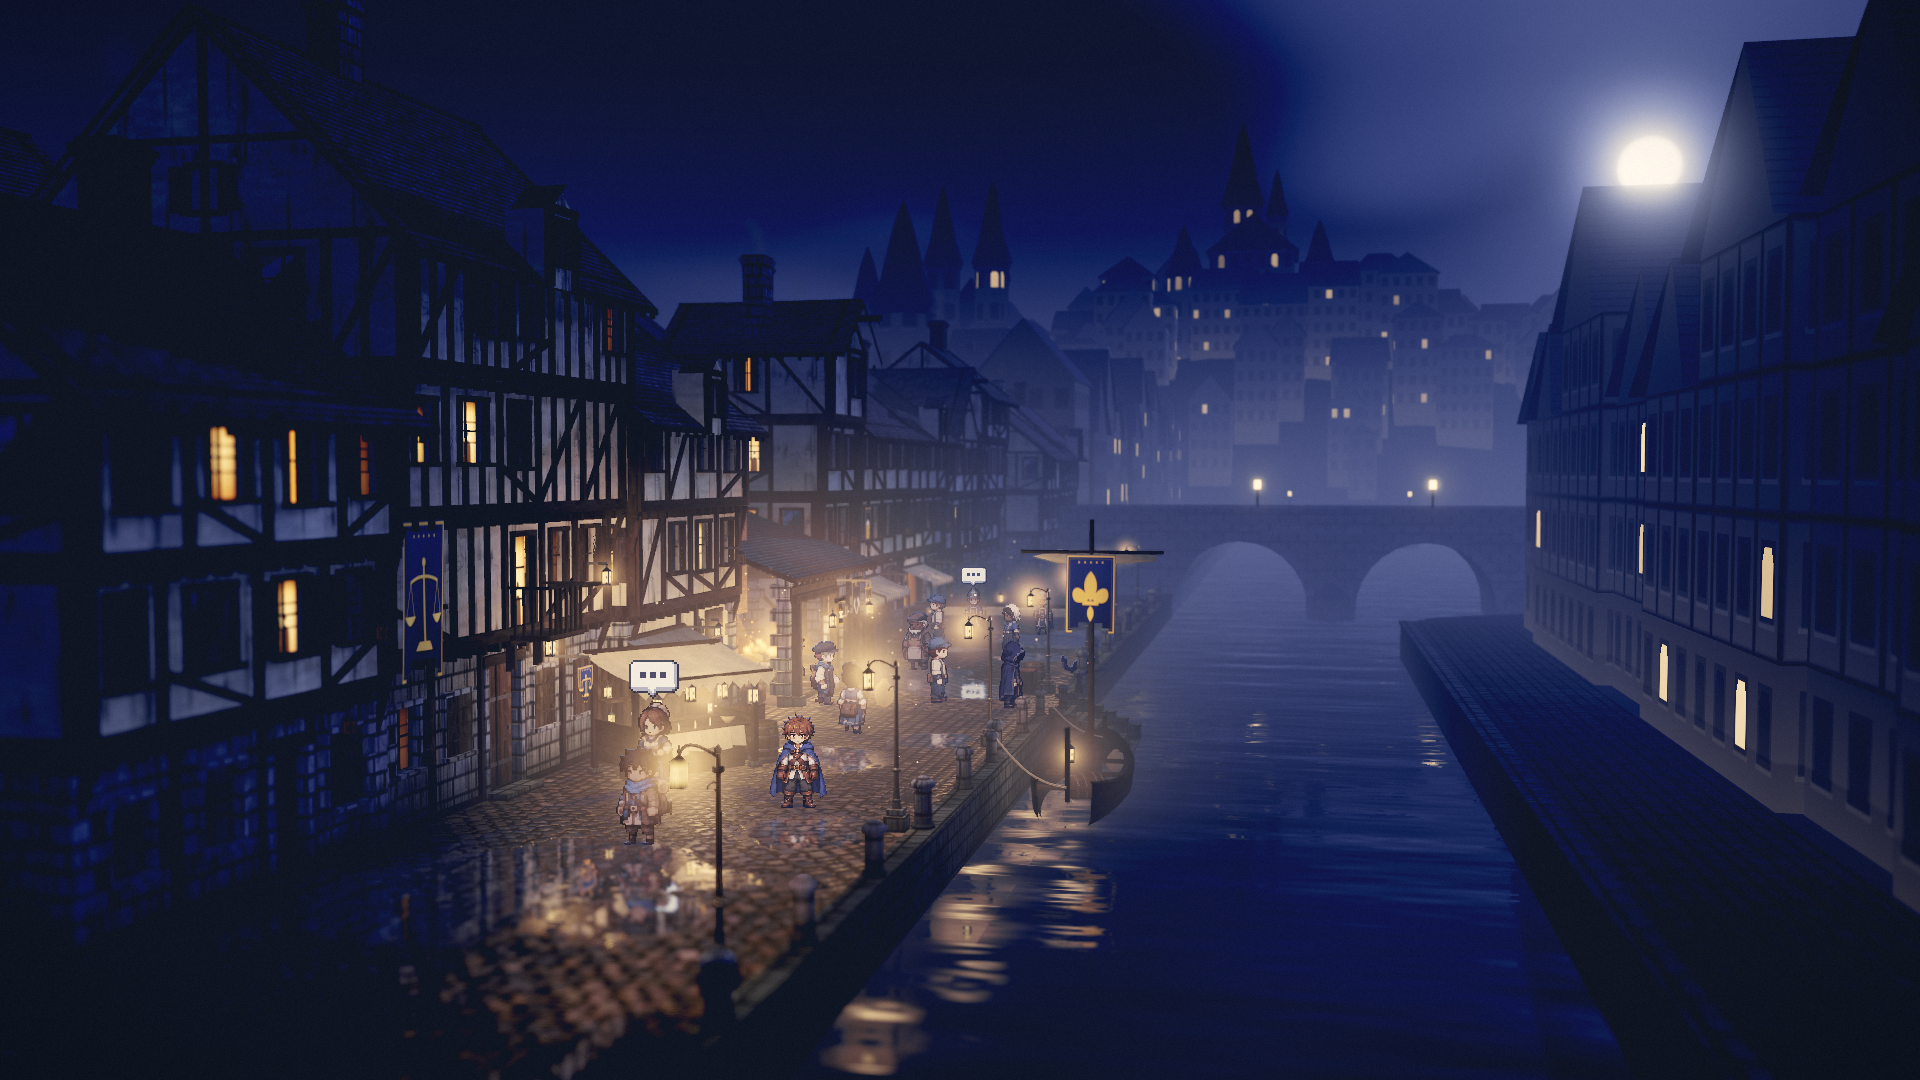
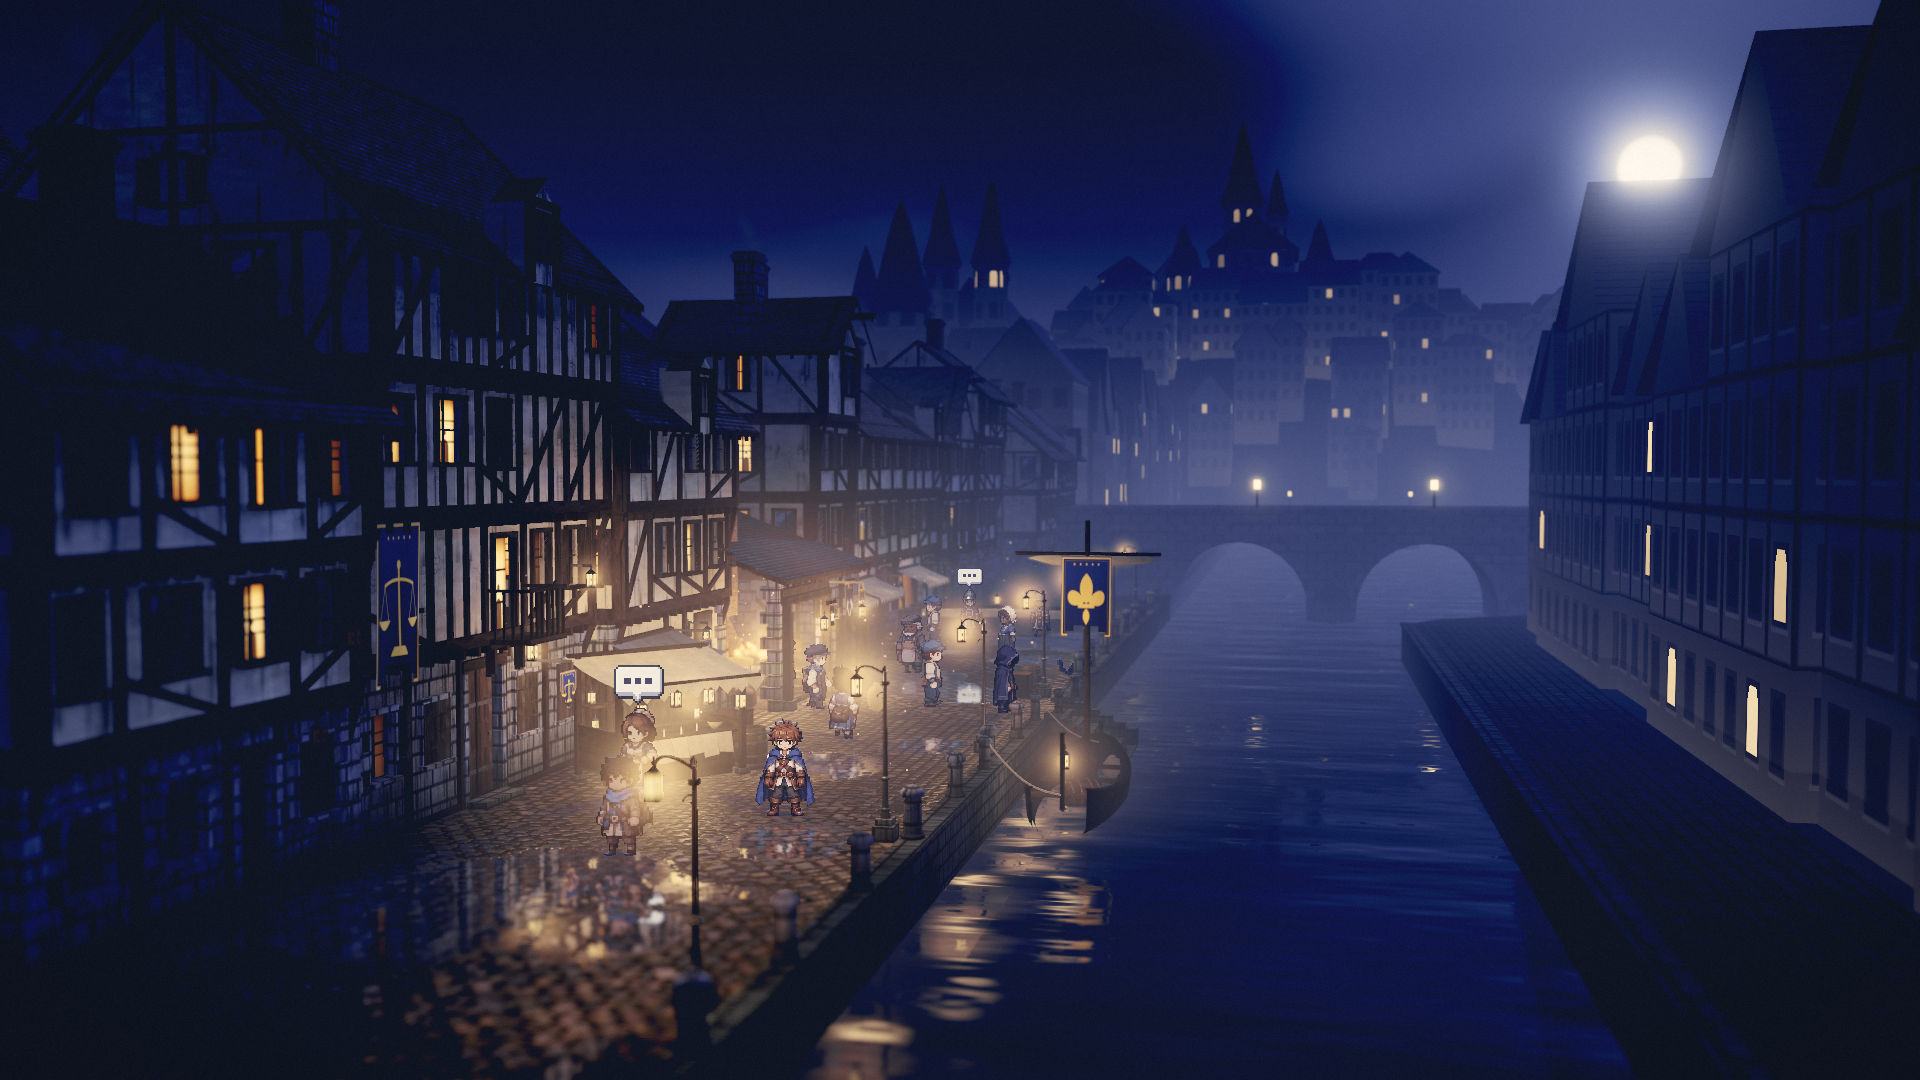
Pass K6: A's pivot moved to x 5.8 (operator decision RK1 « Appliquer 5,8 »)
The graph alone: B -> A no longer glides backwards (+20.7 px/s over 24 frames at 5.0, none at 5.8); A -> B unchanged; the test hardened with
a control at the former pivot. In the game (camsim, no threshold) the player always advanced during B -> A; its slowest advance rises
(36 -> 66 px/s with the production hero, 27.5 -> 40 with the generated cast). Visibility (viewport-proof, same series): main 8 known
failures, the branch 13, the 5 new ones on A / AB explained with vis-why (slivers thinner than a bake pixel, 0 px once forced; one MSAA
crack of seed 7719 that vanishes at msaa=8, for the freeze's geometry fixes). Reference A refreshed.

diff --git a/src/app/CameraGraph.ts b/src/app/CameraGraph.ts
@@ -40,7 +40,9 @@ export const DEFAULT_ANCHORS: Record<CamId, CameraAnchor> = {
   A: {
     id: 'A', label: 'Establishing / arrival',
     yaw: -78, pitch: 2.5, dist: 44, fov: 38, shift: 0,
-    home: [5.0, 4.6, 1.9], ref: [-12, 1.2], gain: [0.35, 0.2], min: [-1, -0.6], max: [3, 0.6],
+    // pivot x 5.8 (5.0 until the operator's decision of 2026-10-19, « Appliquer 5,8 », journal Passes K5 / K6): the anchored B -> A blend no
+    // longer glides the player backwards (+20.7 px/s at x 5.0); the view moves a few pixels along the quay
+    home: [5.8, 4.6, 1.9], ref: [-12, 1.2], gain: [0.35, 0.2], min: [-1, -0.6], max: [3, 0.6],
     charScale: 1.0,
   },
   // the art director's frontal stall view, re-staged: a touch higher (characters separate vertically), a longer

diff --git a/JOURNAL.md b/JOURNAL.md
@@ -858,14 +858,60 @@ Rien à faire pour RH3, RH4 (les trois-quarts des PNJ restent « Plus tard ») e
   près, la revue d'avant (`?cast=candidate&views=5` sur `main`).
 - Une feuille ajoutée en dernier ne déplace rien de ce qui la précède ; le test le dit par l'ordre et par les cases.
 
+## Passe K6 — Caméras : le pivot de A avancé à x 5,8 (décision RK1) (2026-10-19)
+
+### Demande
+- Décision de l'opérateur (Passe D3), mot pour mot : RK1 « Appliquer 5,8 ».
+- Branche `camera-pivotA-k6` depuis `main` (`3bef265`).
+
+### Fait — [OK]
+- `CameraGraph`, cadrage A : `home` x 5,0 → **5,8**, avec la décision en commentaire. Le reste de A (lacet, tangage, distance, focale, gains)
+  ne change pas.
+- Le bake se refait de lui-même : la clé du cache couvre les poses.
+- `tests/camera-graph.test.mjs` : le test de B → A est durci.
+  - Avec le pivot 5,8 : aucun recul, ni sur B → A ni sur A → B.
+  - **Contrôle** : le même test, le pivot remis à 5,0 sur l'instance, doit voir le recul de la Passe K1 (plus de 15 px/s). Il le voit.
+
+### Mesures
+- **Graphe seul** (le harnais des tests : marche droite le long du quai à 2,5 m/s) :
+  - B → A : **+20,7 px/s de recul (24 images) à 5,0 → aucune image de recul à 5,8** ; le joueur avance toujours, d'au moins 7 px/s.
+  - A → B : inchangé, jamais de recul.
+  - Le joueur finit la transition 18 px plus à gauche.
+- **Dans le jeu** (`tools/camsim.mjs`, graine 1842, `static=1`, joueur guidé vers −12,5 / 0,5, puis le long du bord, z 1,6) :
+  - `main` figé (`3bef265`) comme la branche : 0 image de recul au seuil de `camsim` (8 px/s).
+  - Sans seuil, le joueur avance toujours à l'écran pendant B → A. Son avance la plus lente monte avec le pivot à 5,8 :
+    - le héros de production (3,73 m/s) : 36 → 66 px/s ;
+    - la distribution générée (2,5 m/s) : 27,5 → 40 px/s.
+  - **[?] Constat** : le recul de +20,7 px/s n'existait que dans le harnais, où la marche est droite le long de x à 2,5 m/s. Dans le jeu, le
+    guidage et l'échelle des personnages le couvraient déjà ; le recalage donne de la marge.
+- **Visibilité** (`tools/viewport-proof.mjs --no-resize --no-controls`, trois graines × cinq formats, la même série) :
+  - `main` figé : **8 contrôles en échec**, les écarts connus de la Passe G1 (au plus 3 px).
+  - la branche : **13**. Les 8 mêmes, et 5 nouveaux, tous sur A ou AB, tous expliqués par `tools/vis-why.mjs` :
+    - graine 1842, A en 1920 × 1080 (2 px) et en 2560 × 1080 (3 px), AB en 2560 × 1080 (7 px). Les parties manquées forcées, il reste
+      **0 px** : ce sont des lanières plus fines qu'un pixel du bake (pièce 179, un toit du fond, 0 pixel de tuile même à ×8 ; pièce 515, une
+      maison de la ville haute, 0 à la taille du bake). Intensité de 5 à 9 sur 255. C'est la classe de résidu connue (Passe 5b).
+    - graine 7719, A, 2 px dans les deux formats (le même point de la scène, intensité 150). Les parties forcées, l'écart reste, et ce n'est
+      pas l'ordre de dessin. Avec `msaa=8` : **0 px** ; avec `msaa=0`, l'écart se déplace (3 px ailleurs, intensité 44). C'est un seul
+      échantillon MSAA à travers une fissure de la géométrie, pas le culling. Il est à reprendre avec les corrections de géométrie du gel
+      (T2).
+  - Tier 3 et poses du bake : 317 pièces sur 738 à la graine 1842 des deux côtés (1080p) ; le bake se refait (la clé change avec la pose
+    de A).
+- **Validation** : typecheck, `npm test` 87 / 87, build, `art:validate`.
+- **Référence** : `screenshots/calibration/camA-establishing.png` refaite (requête de `tools/screenshots.mjs`, 120 pas, témoin 0 px).
+
+### Pensée
+- Un défaut mesuré dans un harnais se remesure dans le jeu avant d'en tirer le bénéfice d'un réglage : ici, la vitesse et le guidage du
+  joueur réel le couvraient déjà. Le réglage reste celui que l'opérateur a choisi, et la mesure dit ce qu'il apporte vraiment.
+
 ## À reprendre (par priorité)
 
 > Élaguée le 18/10 (Passe M3) : seul le travail ouvert reste, regroupé par thème ; ce qui est fait vit dans sa passe. Les anciens repères
 > (-3 … 6) cités par les passes antérieures renvoient à la liste de `7086340` (`git show 7086340:JOURNAL.md`).
 
-**0. Jalon M1 — décisions de la fiche de revue (Passe D3), à appliquer dans l'ordre de cette passe** : pivot de A à 5,8 ;
+**0. Jalon M1 — décisions de la fiche de revue (Passe D3), à appliquer dans l'ordre de cette passe** :
 suivi `?camfollow=screen` par défaut avec sa preuve ; diagnostic du recul au bord de l'eau ; gel (T1, T2, T7) ; district clos après le gel ;
-puis l'état jour. Gold Master : « Pas encore » (RJ3). Fait : le héros en production et les cinq vues par défaut (Passe H10).
+puis l'état jour. Gold Master : « Pas encore » (RJ3). Fait : le héros en production et les cinq vues par défaut (Passe H10), le pivot de A
+à 5,8 (Passe K6).
 
 **1. Distribution de personnages — décisions de l'opérateur, non traitées** (état de la distribution : `art-lab/characters/README.md`)
 - **Variantes de PNJ** (demande de l'opérateur du 17/10, mot pour mot : « Par ailleurs a la suite de nos travaux de sprites NPC qui sont
@@ -941,7 +987,7 @@ sans traverser C ; (c) lacet max 0,96° / image en C ↔ D (≤ 0,55° ailleurs)
 (−131 px/s) font glisser le joueur à l'envers à l'écran (héritage de la passe 2, mesuré en 4B ; Passe K1 : B → A remesuré −139 px/s, C → B
 0 ; **transitions ancrées partout préparées derrière `?camblend=anchored`** : B → A 0 image de recul au lieu de 14, pic +21 px/s au lieu de +181 ;
 « Oui, par défaut » (Passe D1), appliqué (Passe K4) ; preuve de visibilité sur GPU faite, Passe G1 ; le reste demanderait de recaler le pivot de A :
-« Cherche et montre-moi » : pivot de A x 5,8 trouvé, avant / après montré, Passe K5 ; RK1 « Appliquer 5,8 », Passe D3) ; (e) reculs du joueur à l'écran en cadrage posé C / D (−15 à
+« Cherche et montre-moi » : pivot de A x 5,8 trouvé, avant / après montré, Passe K5 ; RK1 « Appliquer 5,8 », Passe D3 : appliqué, Passe K6) ; (e) reculs du joueur à l'écran en cadrage posé C / D (−15 à
 −39 px/s, Passe K1) : expliqués en Passes K2 / K3 (le pivot de D, qui suit 85 % du déplacement latéral, dépasse un joueur que sa marche en profondeur
 ralentit à l'écran ; le suivi le long des axes de la caméra n'y change rien) ; suivi visant la vitesse à l'écran :
 « Prototyper le suivi à l'écran » (Passe D1) : prototype `?camfollow=screen` (Passe K5 : 0 image de recul sur C ↔ D et D → B), RK2
@@ -952,7 +998,8 @@ ralentit à l'écran ; le suivi le long des axes de la caméra n'y change rien) 
 **5. Visibilité / culling**
 - **Décision de l'opérateur (Passe D1)** : « Géométrie au gel, pas de ×4 » : les corrections de géométrie (fissures, quai coplanaire) au gel
   du district ; ni D ×4 ni poses AB à w = 0,5 (maison 609).
-- **Écarts connus de `viewport-proof`** (9 échecs, tous expliqués en Passe 5b) : fissures MSAA (7719 C, 30417 CD 720p, 1 px de 1842 D
+- **Écarts connus de `viewport-proof`** (9 échecs, tous expliqués en Passe 5b ; 8 avec l'ancrage, Passe G1 ; 13 avec le pivot de A à 5,8, Passe K6 :
+  les 5 de plus sur A / AB, des lanières et une fissure MSAA de la graine 7719 en A, à reprendre avec T2) : fissures MSAA (7719 C, 30417 CD 720p, 1 px de 1842 D
   2560 × 1080), lanières non attrapées à ×2 (30417 D 720p / 665 × 1200 : partie 73 ; 1842 D 2560 × 1080 ; 7719 AB 665 × 1200), maison 609
   (30417 AB). Pixels « order » (30417 B 109 px, AB 31 px, A / BC 1 px en 720p) rapportés sans échouer. Tout nouvel écart :
   `tools/vis-why.mjs` avant de toucher au bake.
